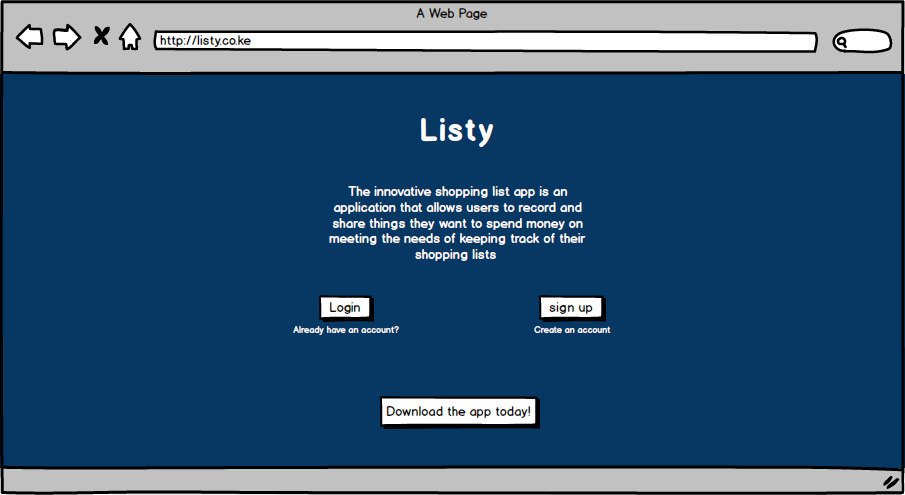
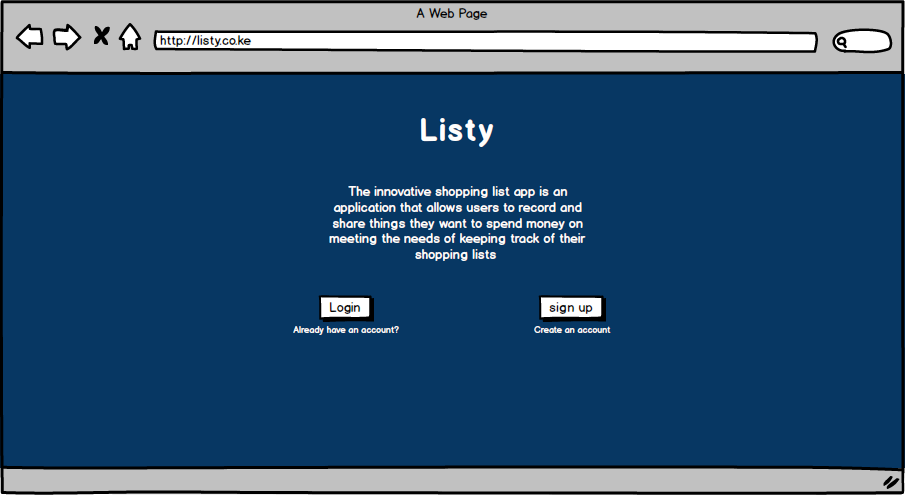
finalized css styling features

Changed region(s): [[0.4022, 0.7879, 0.6188, 0.8788]]

diff --git a/index.html b/index.html
@@ -10,23 +10,20 @@
 <body>
     <div id="container">
         <h1>Listy</h1>
-        <p>The innovative shopping list app is an application that allows 
+        <p class="intro">The innovative shopping list app is an application that allows 
         users to record and share things they want to spend money on meeting 
         the needs of keeping track of their shopping lists</p>
         
         <div id="button-login">
-            <p>Already have an account?</p>
             <button>Login</button>
+            <p>Already have an account?</p>
         </div>
 
         <div id="button-sign-up">
-            <p>Create an account</p>
             <button>Sign Up</button>
+            <p>Create an account</p>
         </div>
 
-        <div id="button-download">
-            <button>Download the app today!</button>
-        </div>
     </div>
     
 </body>

diff --git a/styles/style.css b/styles/style.css
@@ -22,3 +22,21 @@ p {
     padding: 5px;
     text-align: center;
 }
+.intro {
+    margin-top: -30px;
+}
+#button-login{
+    padding-top:50px;
+    float: left;
+}
+#button-login p {
+    font-size: 0.7em;
+}
+
+#button-sign-up{
+    padding-top:50px;
+    float:right;
+}
+#button-sign-up p {
+    font-size: 0.7em;
+}
